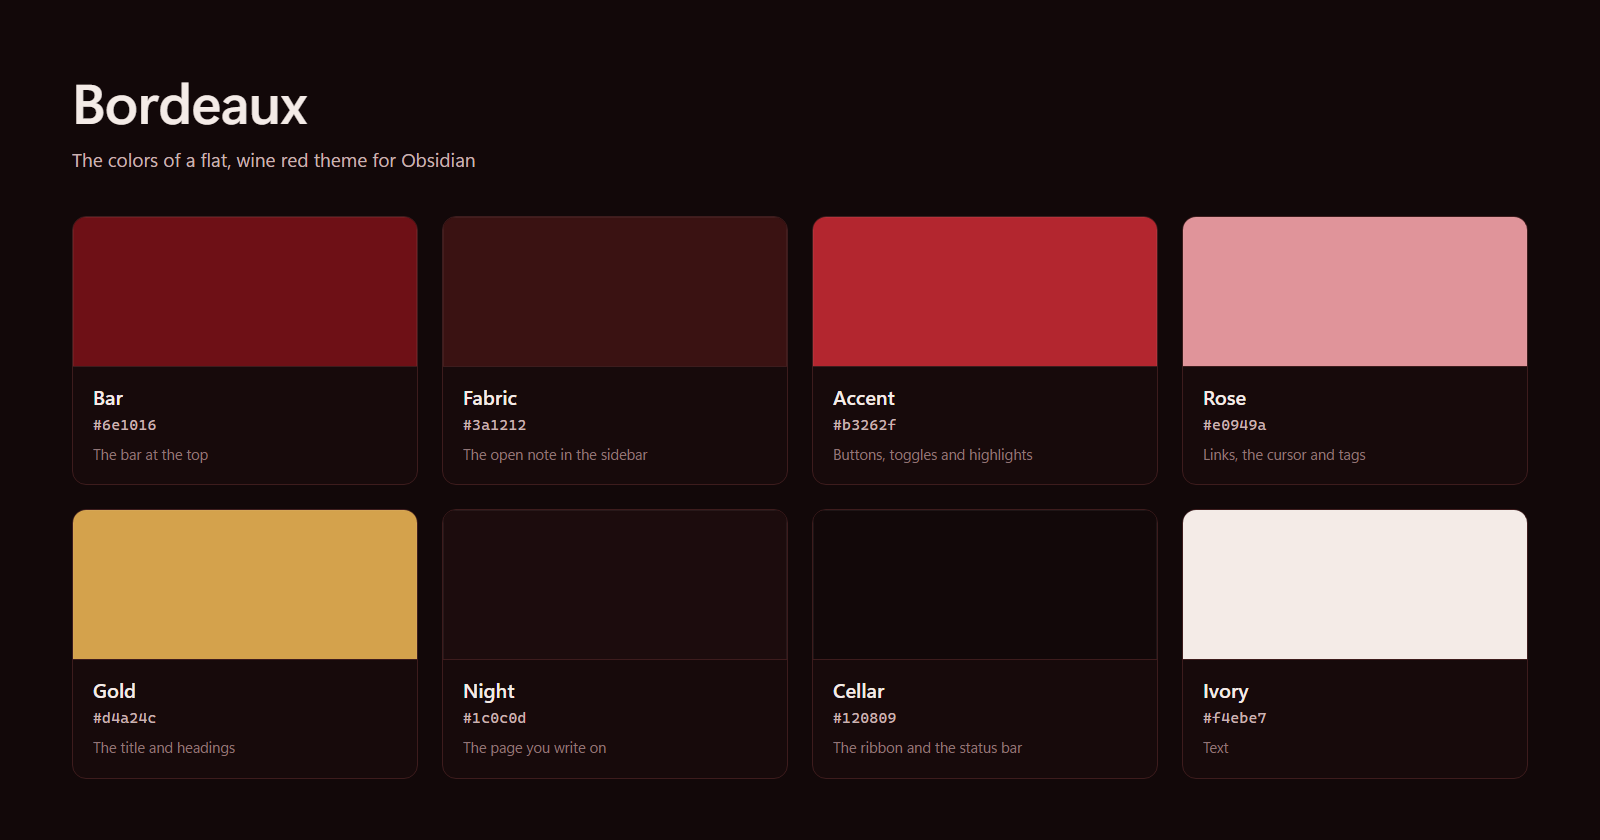
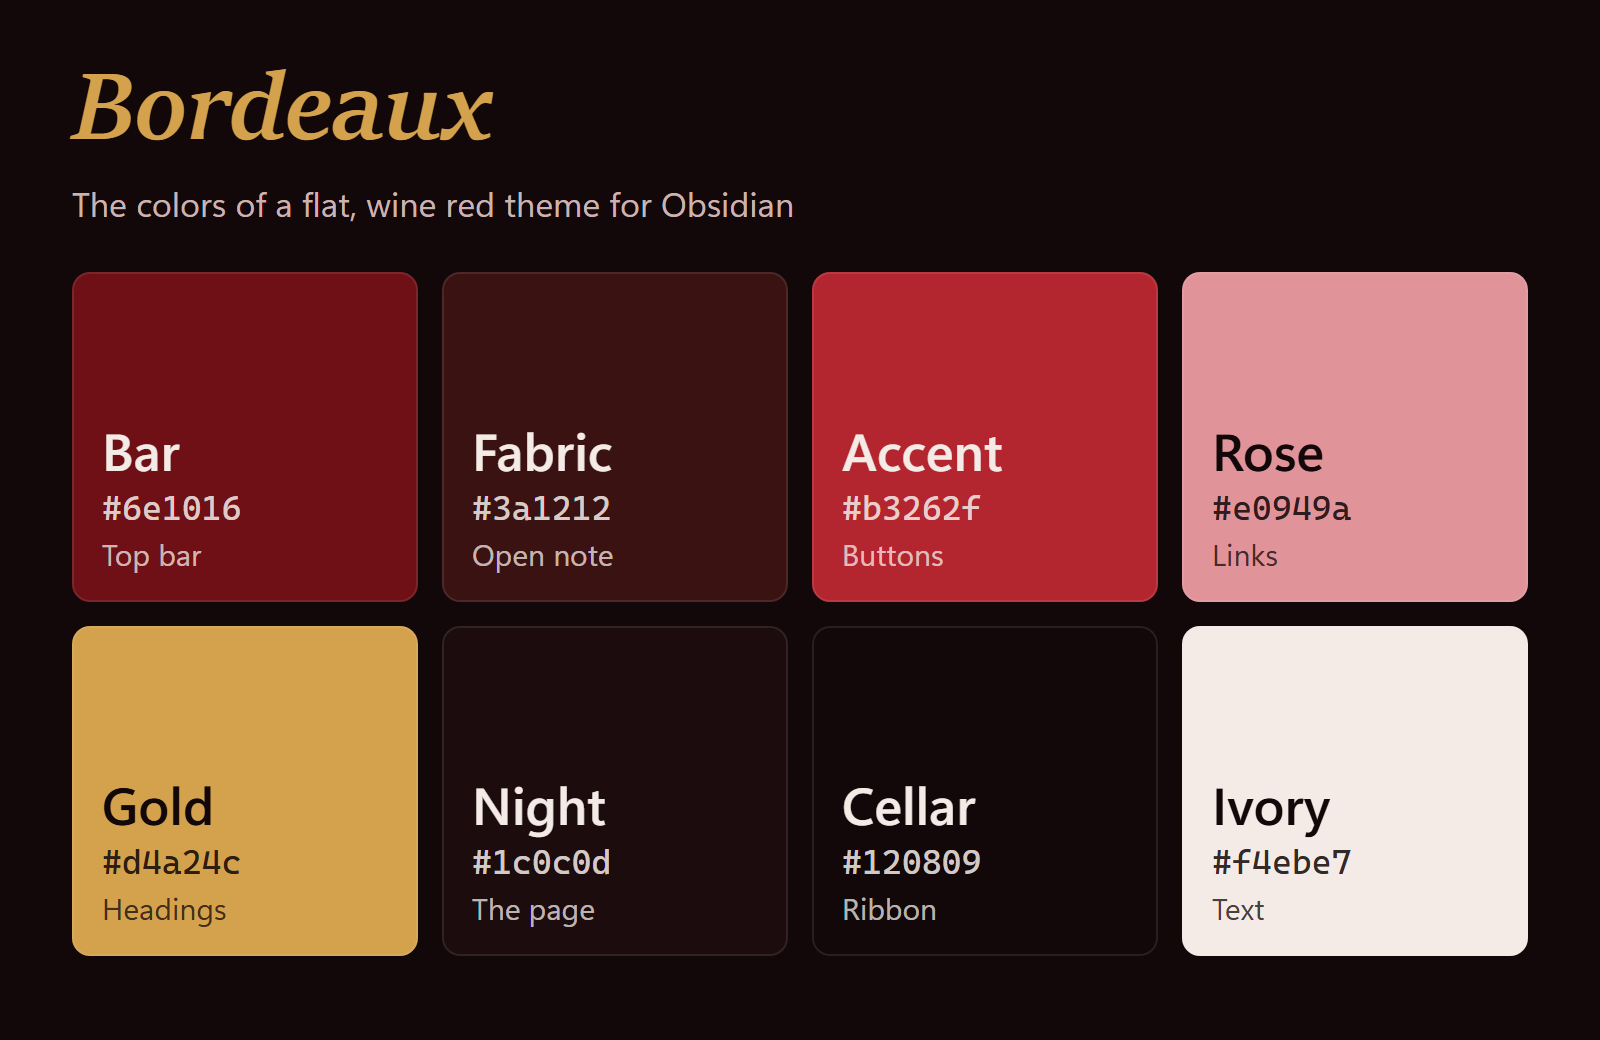
Bordeaux 1.0.1

diff --git a/README.md b/README.md
@@ -1,24 +1,45 @@
 # Bordeaux
 
-🍷 Part of the Vineyard family for Obsidian.
+![Welcome to the Vineyard family: Bordeaux, a theme for Obsidian](banner.png)
 
-![The Bordeaux color palette](palette.png)
+## The Vineyard family
+
+Vineyard is what I call the little Obsidian things I make and give away. There are two so far. They work fine on their own, but they look best together.
+
+| | 💎 Obsidian | 🐙 GitHub |
+|---|---|---|
+| 🍷 **Bordeaux**, the theme on this page | [Theme page](https://community.obsidian.md/themes/bordeaux) | [Repository](https://github.com/creativemindrito/bordeaux-theme-obsidian) |
+| 🍇 **Grape Clusters**, the plugin that groups the graph below by folder | [Plugin page](https://community.obsidian.md/plugins/grape-clusters) | [Repository](https://github.com/creativemindrito/grape-clusters-obsidian) |
 
 A dark wine red theme for Obsidian. I wanted something I could write in for hours without it getting loud, so everything is flat. No gradients and no glow. The only thing that moves is a quick color fade when you hover over something.
 
-This is what it looks like in a real vault, with [Grape Clusters](https://github.com/creativemindrito/grape-clusters-obsidian) grouping the graph by folder:
+![Bordeaux in a test vault, with the file list on the left and the graph view on the right](screenshot.png)
 
-![Bordeaux in Obsidian, with the file list on the left and the graph view on the right](screenshot.png)
+This is Bordeaux in a test vault with 3,000 notes. The graph gets the same dark page, and its lines are a muted wine color. The folders pull together into clusters thanks to Grape Clusters, and each folder's color comes from the *Groups* setting in the graph.
 
 ## Install
 
-1. Download `theme.css` and `manifest.json` from the [latest release](https://github.com/creativemindrito/bordeaux-theme-obsidian/releases/latest).
-2. Put them in a folder called `Bordeaux` inside `.obsidian/themes/` in your vault.
-3. Pick Bordeaux under *Settings → Appearance*.
+There are three ways. Pick the one you like.
+
+- **In Obsidian:** open *Settings → Appearance* and click *Manage* next to Themes. Search for Bordeaux and click *Install and use*.
+- **On the Obsidian website:** open the [Bordeaux page](https://community.obsidian.md/themes/bordeaux) and click *Add to Obsidian*. Obsidian opens on the theme, and you click *Install and use*.
+- **By hand:** download `theme.css` and `manifest.json` from the [latest release](https://github.com/creativemindrito/bordeaux-theme-obsidian/releases/latest) and put them in a folder called `Bordeaux` inside `.obsidian/themes/` in your vault. Then pick Bordeaux under *Settings → Appearance*.
+
+## The colors
+
+![The eight colors of Bordeaux, each with its name, color code and where you see it](palette.png)
+
+These are the eight colors you'll see the most. The reds and the gold sit at the very top of `theme.css`, one line each.
+
+## Writing
+
+![A note in Bordeaux: a gold heading, a list, a tip, a table and a quote](writing.png)
+
+This is where you spend most of your time, so I kept it calm. Headings are gold and set in a serif, links are a soft rosé, and the page is nearly black with a little red in it.
 
 ## Make it yours
 
-The reds sit at the top of `theme.css`. To change one, copy its line into a CSS snippet (*Settings → Appearance → CSS snippets*) so an update never undoes it:
+To change one of the reds, copy its line into a CSS snippet (*Settings → Appearance → CSS snippets*). That way an update never undoes it:
 
 ```css
 .theme-dark {
@@ -30,6 +51,10 @@ The reds sit at the top of `theme.css`. To change one, copy its line into a CSS 
 }
 ```
 
+## Good to know
+
 Dark mode only for now. It's plain CSS and it doesn't load anything from the internet.
 
-Made by [creativemindrito](https://github.com/creativemindrito). Free to use under the [MIT license](LICENSE).
+## Made by
+
+[creativemindrito](https://github.com/creativemindrito). Free to use under the [MIT license](LICENSE). Something looks off? Open an issue and I'll take a look.
